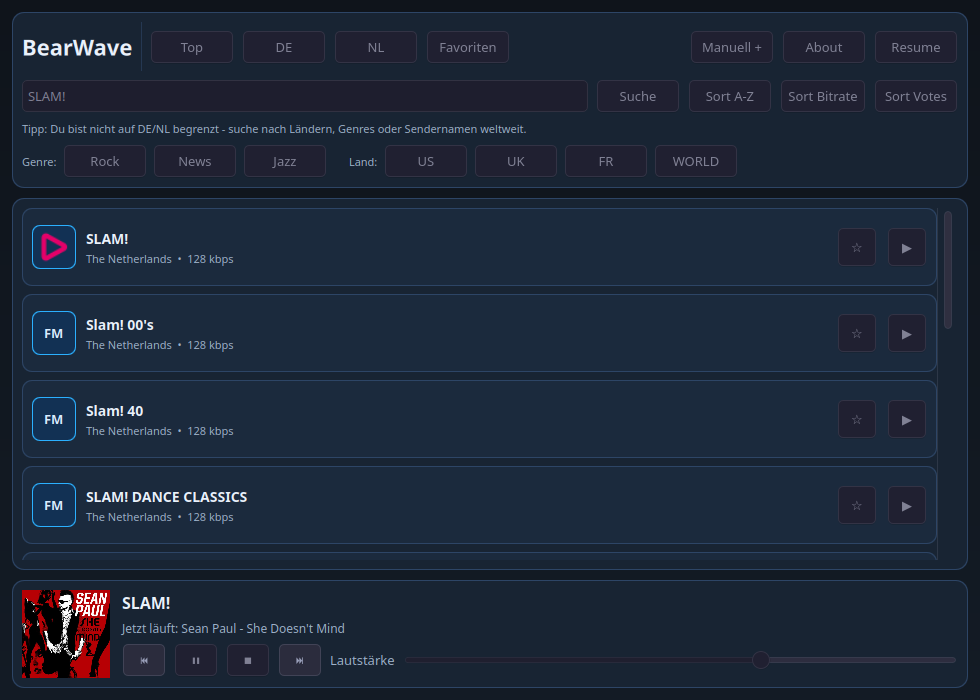
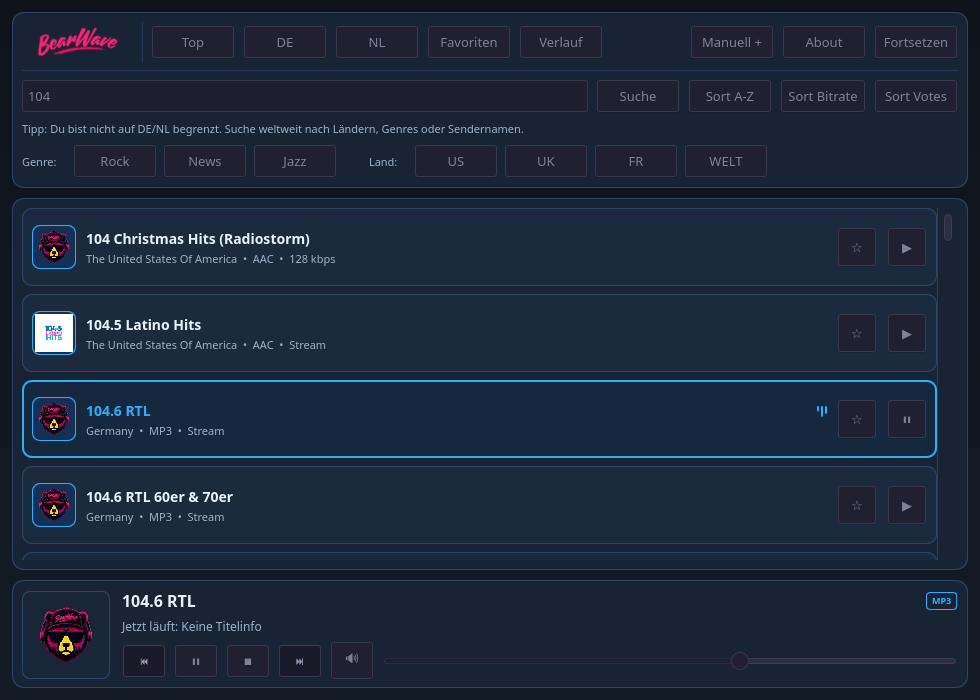
Add new screenshots to README and metainfo

diff --git a/README.md b/README.md
@@ -15,8 +15,7 @@ BearWave is designed for fast station browsing, simple playback controls, favori
 | Main window | Station browser |
 | --- | --- |
 | ![Main Window](screenshots/screen01.png) | ![Station Browser](screenshots/screen02.png) |
-
-![About Dialog](screenshots/screen03.png)
+| ![About Dialog](screenshots/screen03.png) | ![Additional View](screenshots/screen04.png) |
 
 Screenshots: KDE Plasma on Linux.
 
